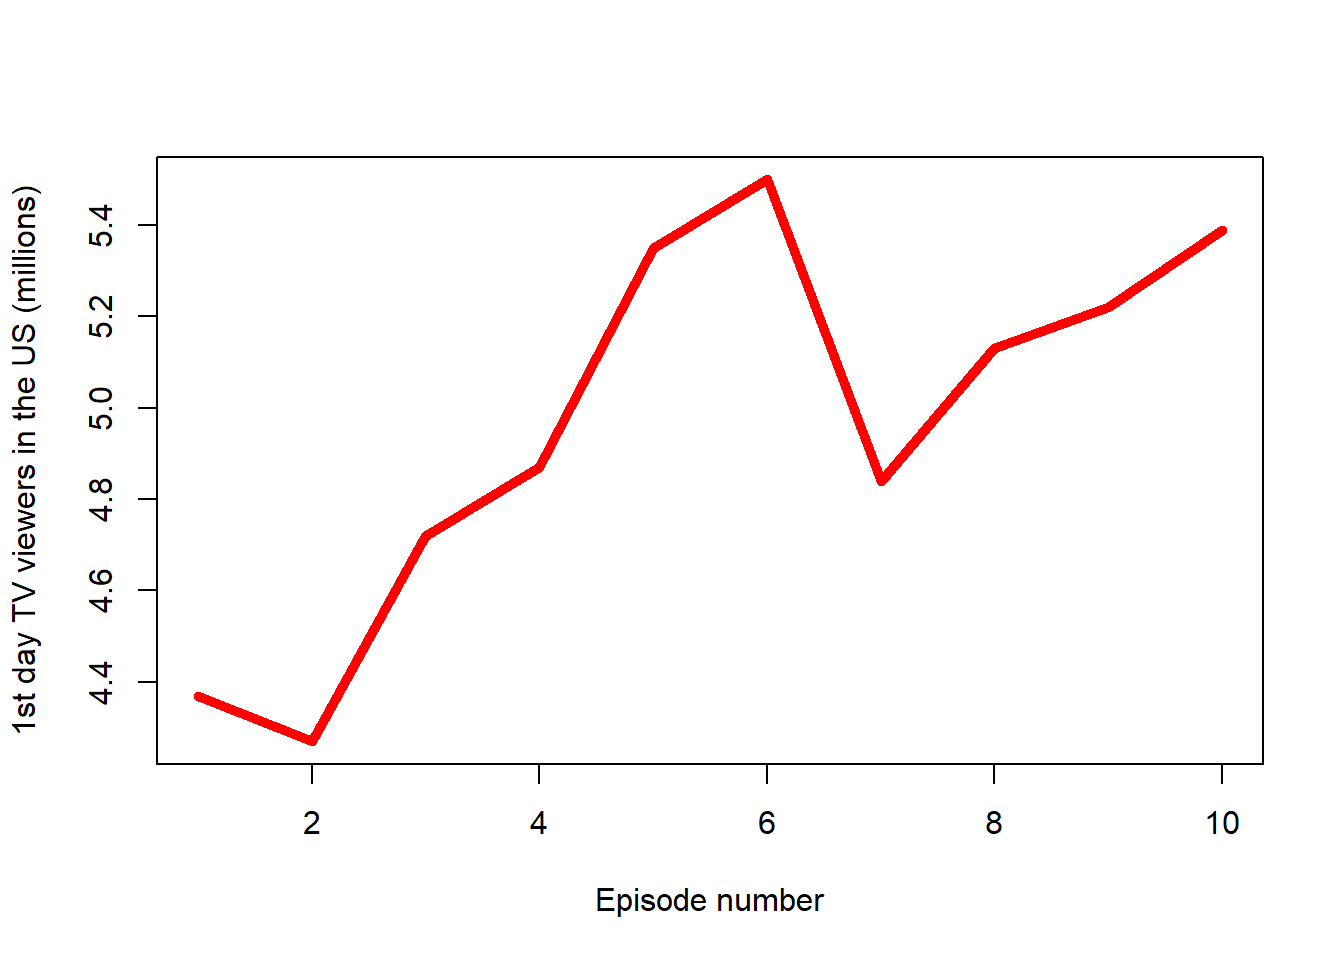
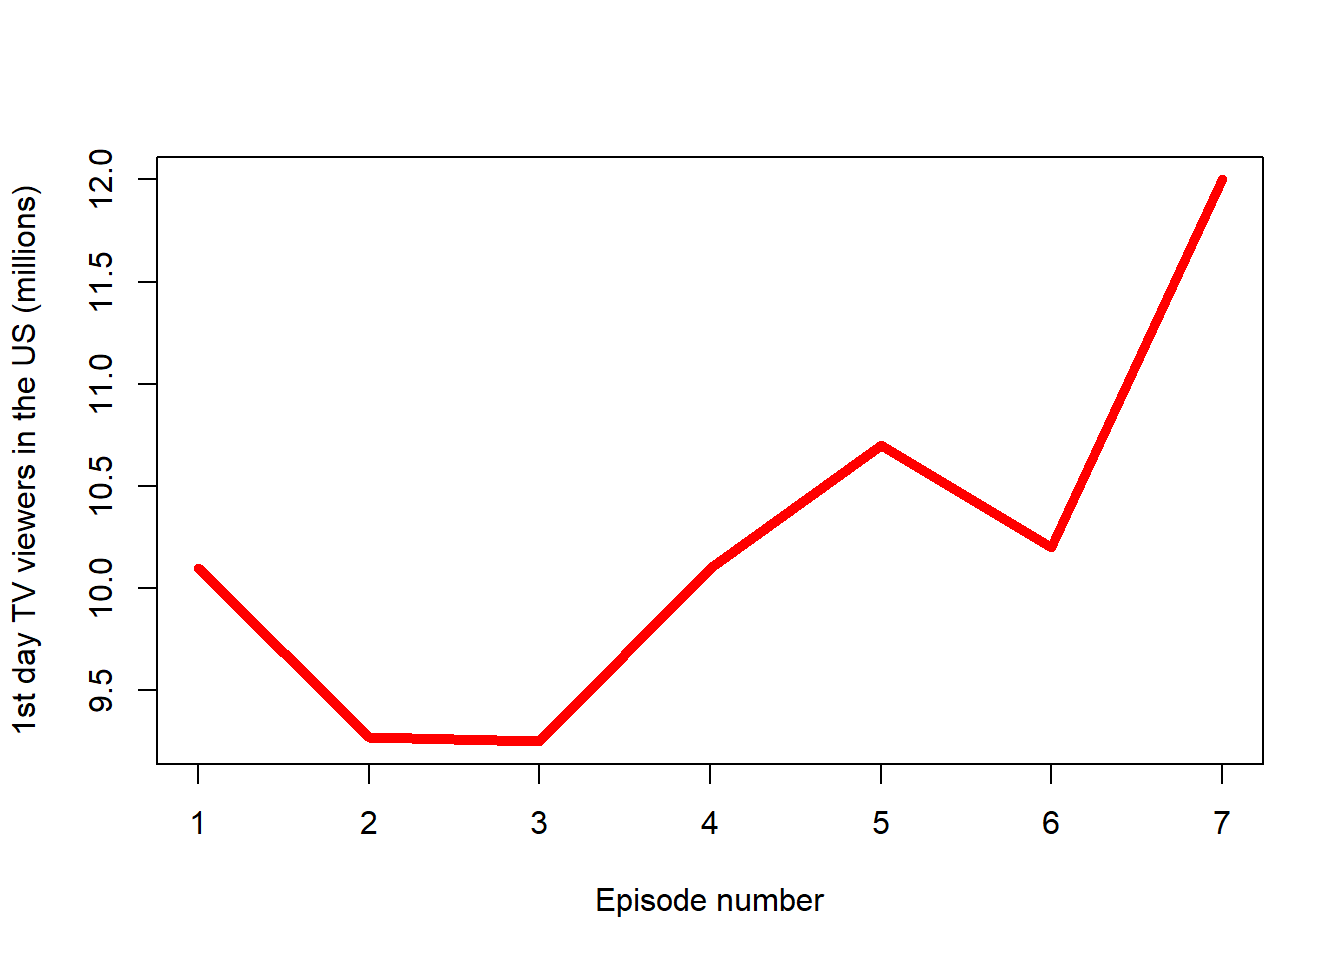
Params are updated

diff --git a/Quarto and MD 3/Assignment.html b/Quarto and MD 3/Assignment.html
@@ -132,7 +132,8 @@ code span.wa { color: #60a0b0; font-weight: bold; font-style: italic; } /* Warni
 </header>
 
 <div class="cell">
-<div class="sourceCode cell-code" id="cb1"><pre class="sourceCode r code-with-copy"><code class="sourceCode r"><span id="cb1-1"><a href="#cb1-1" aria-hidden="true" tabindex="-1"></a><span class="fu">load</span>(<span class="st">"../Data/season_3.RData"</span>)</span></code><button title="Copy to Clipboard" class="code-copy-button"><i class="bi"></i></button></pre></div>
+<div class="sourceCode cell-code" id="cb1"><pre class="sourceCode r code-with-copy"><code class="sourceCode r"><span id="cb1-1"><a href="#cb1-1" aria-hidden="true" tabindex="-1"></a>season_no <span class="ot">&lt;-</span> params<span class="sc">$</span>season</span>
+<span id="cb1-2"><a href="#cb1-2" aria-hidden="true" tabindex="-1"></a><span class="fu">load</span>(<span class="fu">paste0</span>(<span class="st">"../Data/season_"</span>, season_no, <span class="st">".RData"</span>))</span></code><button title="Copy to Clipboard" class="code-copy-button"><i class="bi"></i></button></pre></div>
 </div>
 <section id="game-of-thrones---season-1-summary-in-numbers" class="level1">
 <h1>Game of Thrones - Season 1 summary in numbers</h1>
